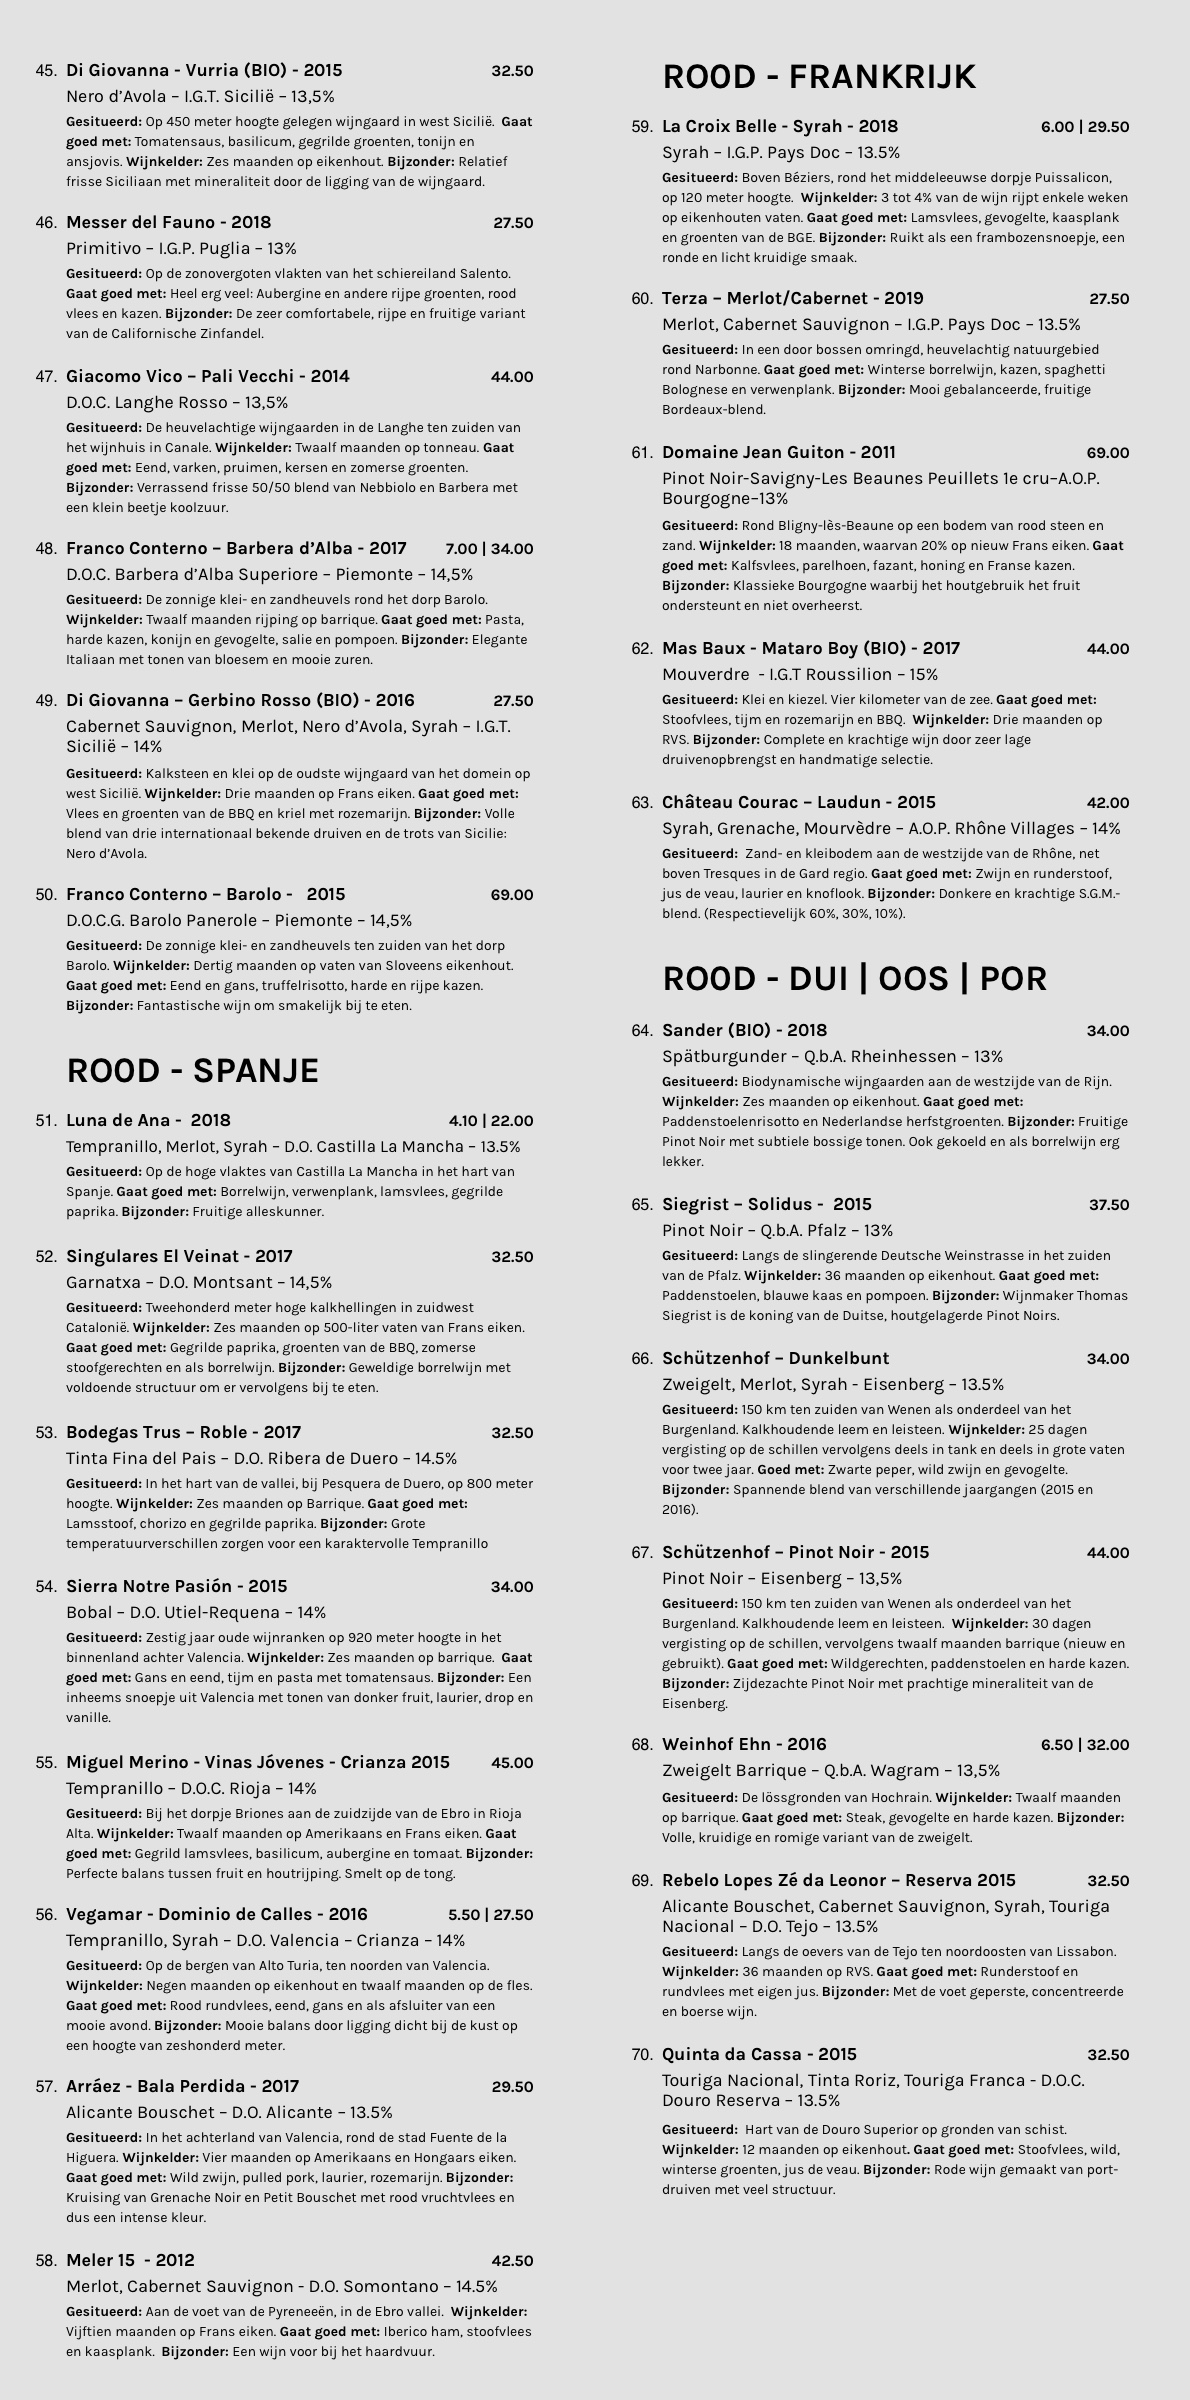
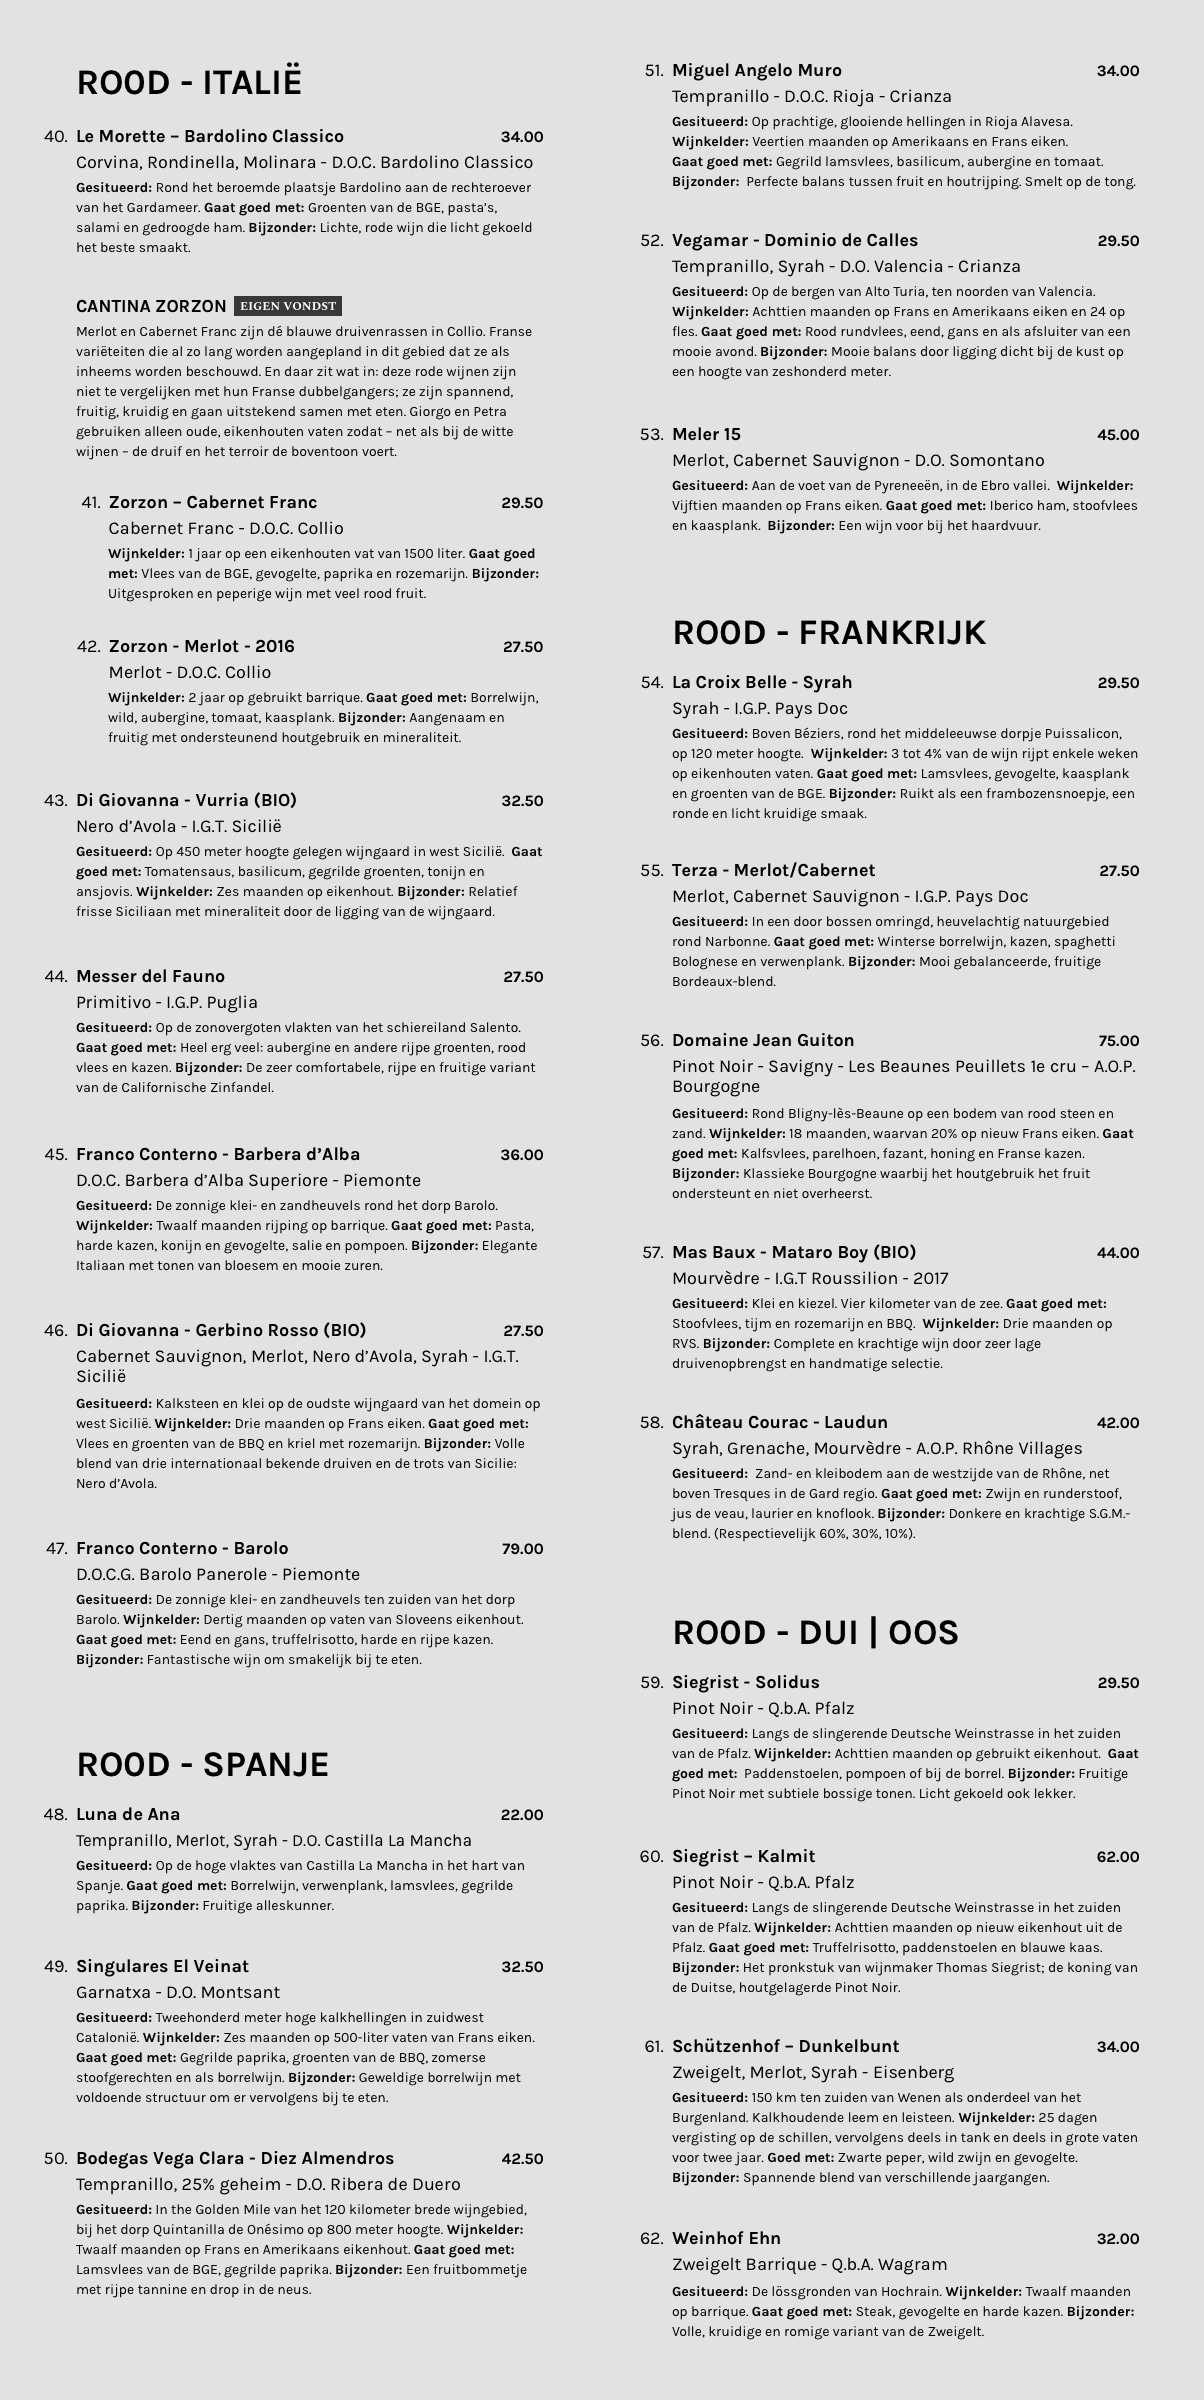
nieuwe wijnkaart, mobile versie beter leesbaar.

Changed region(s): [[0.0311, 0.0, 0.4353, 1.0], [0.5286, 0.0, 0.9639, 0.9688]]

diff --git a/src/client/wijnkaart/index.html b/src/client/wijnkaart/index.html
@@ -86,11 +86,17 @@
 
 <!-- menukaart-content -->
 	<div class="container-m menukaart-content">
-		<img alt="wijnkaart" src="/img/wijnkaart/wijnkaart1.jpg" srcset="/img/wijnkaart/wijnkaart1-S.jpg 828w, /img/wijnkaart/wijnkaart1.jpg 1728w"
+		<img alt="wijnkaart" src="/img/wijnkaart/wijnkaart1.jpg" srcset="/img/wijnkaart/wijnkaart1-s.jpg 828w, /img/wijnkaart/wijnkaart1.jpg 1728w"
 		 sizes="(min-width: 1536px) 1728px, 100vw">
-		 <img alt="wijnkaart" src="/img/wijnkaart/wijnkaart2.jpg" srcset="/img/wijnkaart/wijnkaart2-S.jpg 828w, /img/wijnkaart/wijnkaart2.jpg 1728w"
+		 <img alt="wijnkaart" src="/img/wijnkaart/wijnkaart2.jpg" srcset="/img/wijnkaart/wijnkaart2-s.jpg 828w, /img/wijnkaart/wijnkaart2.jpg 1728w"
 		 sizes="(min-width: 1536px) 1728px, 100vw">
-		 <img alt="wijnkaart" src="/img/wijnkaart/wijnkaart3.jpg" srcset="/img/wijnkaart/wijnkaart3-S.jpg 828w, /img/wijnkaart/wijnkaart3.jpg 1728w"
+		 <img alt="wijnkaart" src="/img/wijnkaart/wijnkaart3.jpg" srcset="/img/wijnkaart/wijnkaart3-s.jpg 828w, /img/wijnkaart/wijnkaart3.jpg 1728w"
+		 sizes="(min-width: 1536px) 1728px, 100vw">
+		 <img d-block d-sm-none alt="wijnkaart" src="/img/wijnkaart/wijnkaart3.jpg" srcset="/img/wijnkaart/wijnkaart4-s.jpg 828w, /img/wijnkaart/wijnkaart3.jpg 1728w"
+		 sizes="(min-width: 1536px) 1728px, 100vw">
+		 <img d-block d-sm-none alt="wijnkaart" src="/img/wijnkaart/wijnkaart3.jpg" srcset="/img/wijnkaart/wijnkaart5-s.jpg 828w, /img/wijnkaart/wijnkaart3.jpg 1728w"
+		 sizes="(min-width: 1536px) 1728px, 100vw">
+		 <img d-block d-sm-none alt="wijnkaart" src="/img/wijnkaart/wijnkaart3.jpg" srcset="/img/wijnkaart/wijnkaart6-s.jpg 828w, /img/wijnkaart/wijnkaart3.jpg 1728w"
 		 sizes="(min-width: 1536px) 1728px, 100vw">
 	</div>
 
